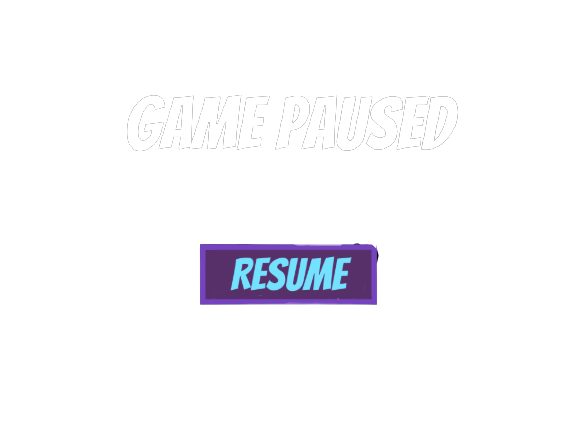
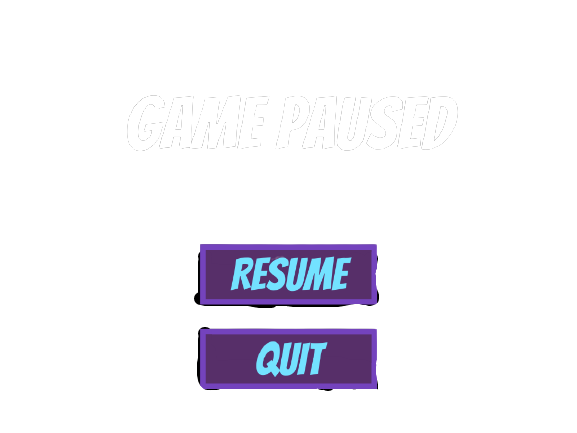
done?

Changed region(s): [[0.3432, 0.7506, 0.6551, 0.9007], [0.3432, 0.6005, 0.6551, 0.7206], [0.5303, 0.5404, 0.5927, 0.5704]]

diff --git a/gameScene.py b/gameScene.py
@@ -1,5 +1,6 @@
 # import modules
 import pygame
+import pygame.freetype
 import math
 import random
 
@@ -9,6 +10,9 @@ asteroidImg = pygame.transform.scale(pygame.image.load("./assets/asteroids.png")
 backgroundImg = pygame.image.load("./assets/gameBackground.png")
 
 explosionImgs = [ pygame.transform.scale(pygame.image.load(f"./assets/explosion/{i}.png"),(190,150)) for i in range(7) ]
+
+pygame.freetype.init()
+bangersFont = pygame.freetype.Font("./assets/Bangers-Regular.ttf")
 
 # define constants
 ACCELERATION = 1
@@ -60,10 +64,12 @@ PLANET_SIZES = { "mercury": 63, "venus": 77, "earth": 89, "mars": 75, "jupiter":
 # main scene subprogram
 def gameScene(events, screen, state, globals):
     if not state: # initialize the state if it is empty
-        initializeState(state)
+        initializeState(state, globals)
 
-    if handleEvents(events, state) == False:
-        return False # exits the program
+    handleEventsResult = handleEvents(events, state, globals)
+    
+    if handleEventsResult != None:
+        return handleEventsResult
 
     if not state["paused"]:
         updateSpaceship(screen, state)
@@ -78,18 +84,24 @@ def gameScene(events, screen, state, globals):
     draw(screen, state)
 
 # subprograms used in the scene
-def initializeState(state):
+def initializeState(state, globalVars):
     state["controls"] = { "up": False, "left": False, "down": False, "right": False }
     state["spaceship"] = { "pos": [500,400], "vel": [0,0], "angle": 0, "rotationVel": 0, "exploding": None, "framesUntilNext": 3 }
     state["timeUntilAsteroid"] = 1 * 60
     state["asteroids"] = []
-    state["missingPlanets"] = PLANETS.copy()
+
+    if not "missingPlanets" in globalVars:
+        state["missingPlanets"] = PLANETS.copy()
+    else:
+        state["missingPlanets"] = globalVars["missingPlanets"]
+
     state["blasterBolts"] = []
     state["shootCooldown"] = 0
     state["paused"] = False
     state["planetCard"] = None
+    state["score"] = 0
 
-def handleEvents(events, state):
+def handleEvents(events, state, globalVars):
     state["shootCooldown"] -= 1
 
     for event in events:
@@ -145,9 +157,15 @@ def handleEvents(events, state):
                     if mousePos[0] > 615 and mousePos[0] < 635 and mousePos[1] > 235 and mousePos[1] < 260:
                         state["planetCard"] = None
                         state["paused"] = False
+
+                        if len(state["missingPlanets"]) == 0:
+                            return "win"
                 else:
                     if mousePos[0] > 354 and mousePos[0] < 670 and mousePos[1] > 430 and mousePos[1] < 540:
                         state["paused"] = False
+                    elif mousePos[0] > 355 and mousePos[0] < 670 and mousePos[1] > 580 and mousePos[1] < 690:
+                        globalVars["missingPlanets"] = state["missingPlanets"]
+                        return "menu"
                     
 def updateSpaceship(screen, state):
     if state["spaceship"]["exploding"] != None:
@@ -155,6 +173,7 @@ def updateSpaceship(screen, state):
             state["spaceship"] = { "pos": [500,400], "vel": [0,0], "angle": 0, "rotationVel": 0, "exploding": None, "framesUntilNext": 3 }
             state["asteroids"] = []
             state["blasterBolts"] = []
+            state["score"] = 0
             return
 
         state["spaceship"]["framesUntilNext"] -= 1
@@ -252,13 +271,13 @@ def handleAsteroidSpawning(state):
             spawnPos, asteroidVel = generateAsteroidSpawn()
 
             # if the spawn position is too close to the player, try again; otherwise, break from the loop
-            if pygame.math.Vector2(spawnPos[0], -spawnPos[1]).distance_to((state["spaceship"]["pos"][0], -state["spaceship"]["pos"][1])) > 300:
+            if pygame.math.Vector2(spawnPos[0], -spawnPos[1]).distance_to((state["spaceship"]["pos"][0], -state["spaceship"]["pos"][1])) > 400:
                 break
 
         planet = None
 
         if state["missingPlanets"] and random.random() < 0.2:
-            for i in range(2):
+            for i in range(3):
                 planetChoice = random.choice(PLANETS)
 
                 if planetChoice in state["missingPlanets"]:
@@ -340,6 +359,7 @@ def updateAsteroid(screen, asteroidState, state):
         if circleCircleCollision(bolt["pos"], 5, center, size):
             print("boom")
             asteroidState["exploding"] = 0
+            state['score'] += 3 if asteroidState["planet"] else 1
             state["blasterBolts"].remove(bolt) # deletes the blaster bolt
 
 def getAsteroidHitbox(asteroidState):
@@ -406,3 +426,6 @@ def draw(screen, state):
             screen.blit(planetCardImgs[state["planetCard"]], (230,140))
         else:
             screen.blit(pauseMenuImg, (0,0))
+
+    bangersFont.render_to(screen, (0, 730), f"Missing Planets: {len(state['missingPlanets'])}", (255,255,255), size=48)
+    bangersFont.render_to(screen, (500, 25), str(state['score']), (255,255,255), size=48)

diff --git a/main.py b/main.py
@@ -12,6 +12,7 @@ from resultsScene import resultsScene
 from testUncompletedScene import testUncompletedScene
 from testNotUnlockedScene import testNotUnlockedScene
 from creditScene import creditScene
+from winScene import winScene
 
 from lessonScene import lessonScene
 from lessonSun import lessonSun
@@ -41,6 +42,7 @@ startGame({
     "results": resultsScene,
     "testUncompleted": testUncompletedScene,
     "testNotUnlocked": testNotUnlockedScene,
+    "win": winScene,
 
     "lesson": lessonScene,
     "credits": creditScene, 
@@ -52,4 +54,4 @@ startGame({
     "Uranus/Neptune": lessonUranusNeptune, 
     "Dwarf Planets": lessonDwarf, 
     "Dwarf Planets2": lessonDwarf2
-}, "game", (1024, 768))
+}, "title", (1024, 768))

diff --git a/winScene.py b/winScene.py
@@ -1,0 +1,19 @@
+import pygame 
+
+background = pygame.image.load('./assets/winBackground.png')
+
+def winScene(events, screen, state, globals):
+    for event in events:
+        if event.type == pygame.QUIT:
+            return False
+        elif event.type == pygame.MOUSEBUTTONDOWN:
+            mousePos = pygame.mouse.get_pos()
+            print(mousePos)
+
+            if mousePos[0] > 330 and mousePos[0] < 715 and mousePos[1] > 585 and mousePos[1] < 716:
+                globals["gameCompleted"] = True
+                if "missingPlanets" in globals:
+                    del globals["missingPlanets"]
+                return "menu"
+
+    screen.blit(background, (0,0))

diff --git a/menuScene.py b/menuScene.py
@@ -22,7 +22,7 @@ def menuScene(events, screen, state, globals):
             elif mousePos[0] > 135 and mousePos[0] < 455 and mousePos[1] > 385 and mousePos[1] < 495:
                 return "game"
             elif mousePos[0] > 385 and mousePos[0] < 645 and mousePos[1] > 525 and mousePos[1] < 615:
-                if "lessonCompleted" in globals and "gameCompleted" in globals:
+                if "gameCompleted" in globals: #and "lessonCompleted" in globals:
                     return "testStart"
                 else:
                     return "testNotUnlocked"
